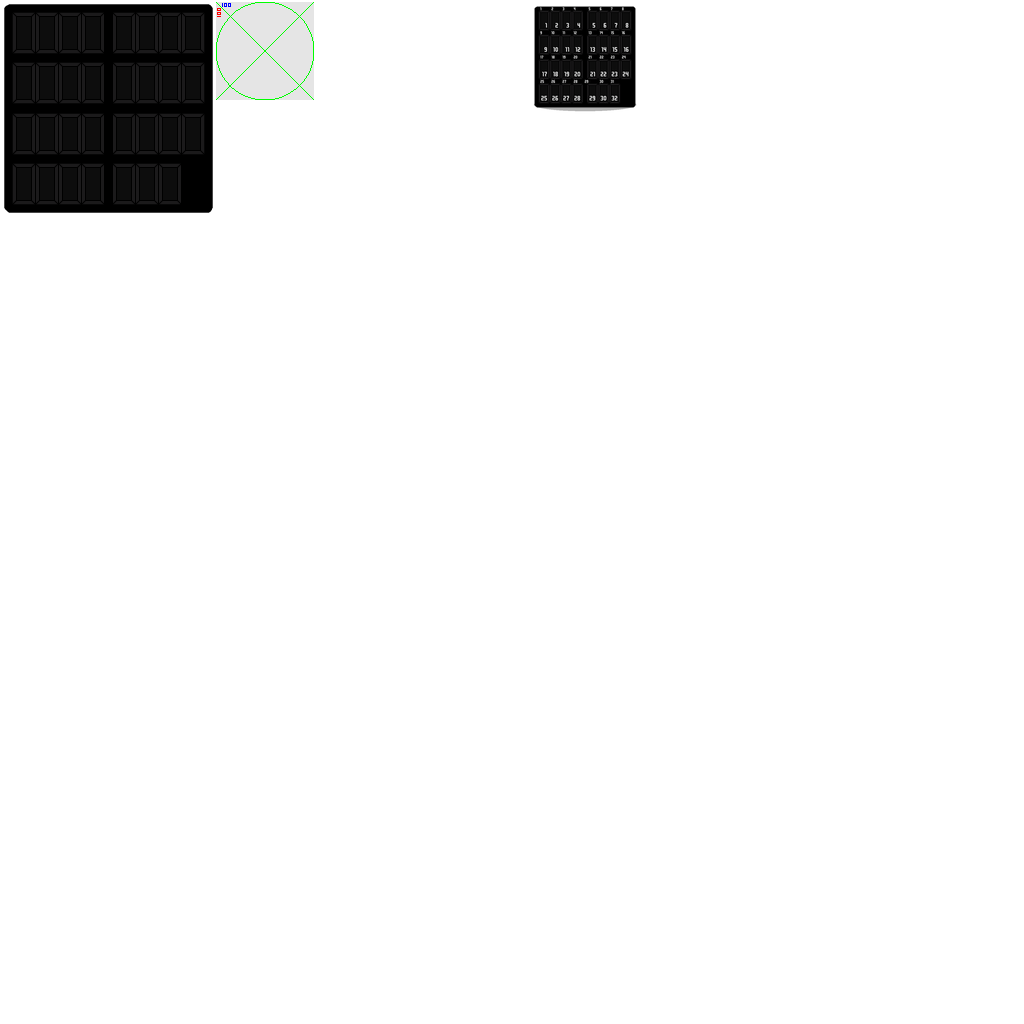
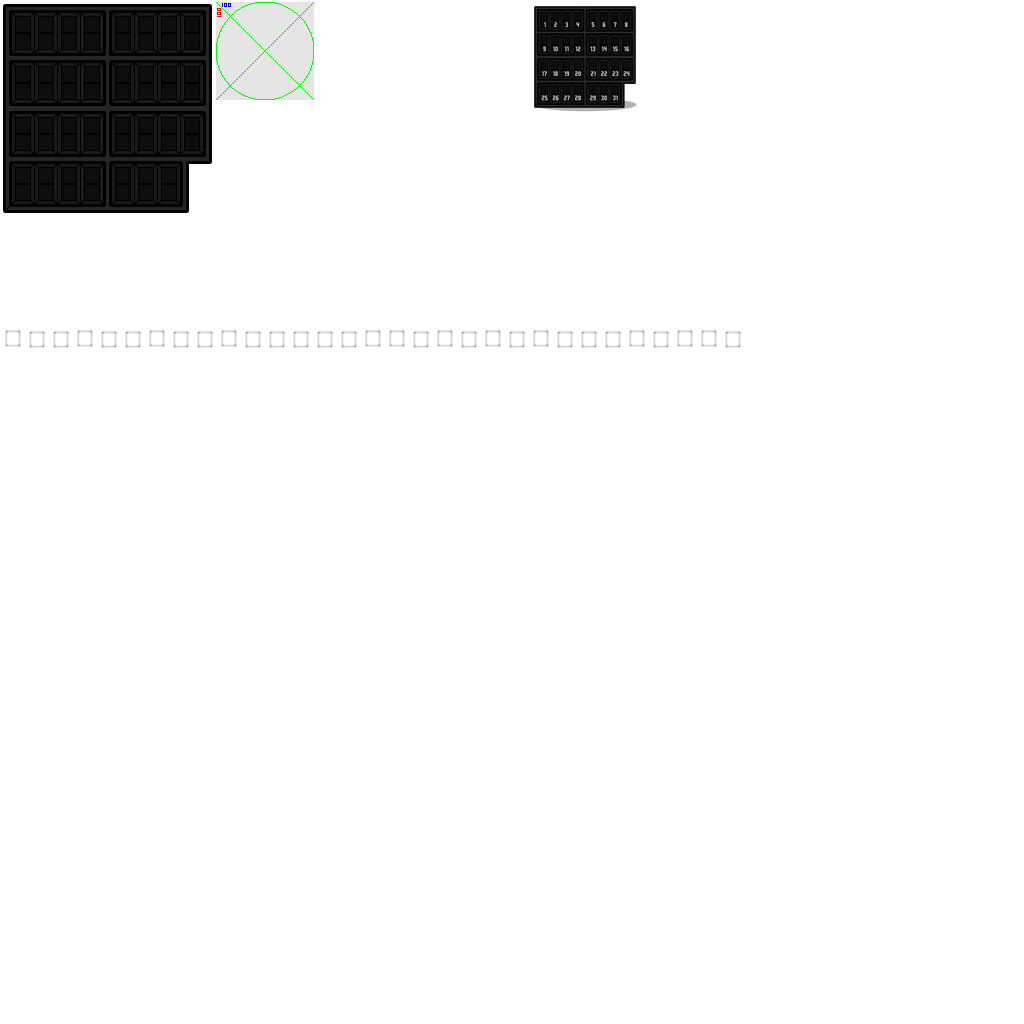
OM-008: Ribbon Diagnostic Panel art from 3GuB's second export, lamps bit_1 to bit_31 without bloom

diff --git a/mods/bitshifter/src/Bitshifter/Toolkit/RibbonDiagnosticPanel.cs b/mods/bitshifter/src/Bitshifter/Toolkit/RibbonDiagnosticPanel.cs
@@ -6,8 +6,8 @@ using PANEL = Bitshifter.ModStrings.BITSHIFTER.DIAGNOSTICPANEL;
 namespace Bitshifter
 {
 	/// <summary>
-	/// The Ribbon Diagnostic Panel. Its face has one lamp per bit (symbols bit_bloom_1 to
-	/// bit_bloom_31, laid out 8 x 4 like the side screen): green while that bit of the input
+	/// The Ribbon Diagnostic Panel. Its face has one lamp per bit (symbols bit_1 to
+	/// bit_31, laid out 8 x 4 like the side screen): green while that bit of the input
 	/// ribbon is on, purple while the player has switched it on and the output is wired, hidden
 	/// otherwise (the body draws a dark socket under every lamp). The output always carries
 	/// input OR switches, wired or not, so a wire added later takes the right value at once; only
@@ -28,8 +28,8 @@ namespace Bitshifter
 
 		/// <summary>The vanilla Ribbon Reader's and Writer's green (their colorOn).</summary>
 		public static readonly Color Green = new Color(29f / 85f, 37f / 51f, 0.36862746f);
-		// The lamp tints lean away from the colours they show, because the bloom pass shifts them:
-		// green toward yellow, red toward orange, purple toward pink. Red is touchy: much more blue reads pink.
+		// The lamp tints were tuned with bloom on the lamps, which shifts them (green toward yellow, red
+		// toward orange, purple toward pink); the art's current export has no bloom on them.
 		/// <summary>The lamp tint of an input bit carrying a Green Signal.</summary>
 		public static readonly Color LampGreen = new Color(40f / 255f, 1f, 80f / 255f);
 		/// <summary>The lamp tint of an inactive bit.</summary>
@@ -270,7 +270,7 @@ namespace Bitshifter
 		{
 			var lamps = new KAnimHashedString[BitshifterMod.Bits];
 			for (int bit = 0; bit < lamps.Length; bit++)
-				lamps[bit] = new KAnimHashedString("bit_bloom_" + (bit + 1));
+				lamps[bit] = new KAnimHashedString("bit_" + (bit + 1));
 			return lamps;
 		}
 	}

diff --git a/mods/bitshifter/src/Bitshifter.Tests/DiagnosticPanel.cs b/mods/bitshifter/src/Bitshifter.Tests/DiagnosticPanel.cs
@@ -12,7 +12,7 @@ namespace Bitshifter.Tests
 	/// <summary>
 	/// The Ribbon Diagnostic Panel: lamps, switches, output, saving, copying, the build menu and its
 	/// side screen. The lamps are read back from the building's animation (visibility and tint of
-	/// bit_bloom_1 to bit_bloom_31), the status items from the selectable, the side screen from the
+	/// bit_1 to bit_31), the status items from the selectable, the side screen from the
 	/// widgets the details screen shows. Every step waits game time, as a player's would.
 	/// </summary>
 	public static class DiagnosticPanel
@@ -44,7 +44,7 @@ namespace Bitshifter.Tests
 			for (int bit = 0; bit < BitshifterMod.Bits; bit++)
 			{
 				LampState want = expected(bit);
-				var symbol = new KAnimHashedString("bit_bloom_" + (bit + 1));
+				var symbol = new KAnimHashedString("bit_" + (bit + 1));
 				bool visible = Anims.SymbolVisible(kbac, symbol);
 				if (part.Lamp(bit) != want)
 					wrong.Add((bit + 1) + " is " + part.Lamp(bit) + ", wanted " + want);
